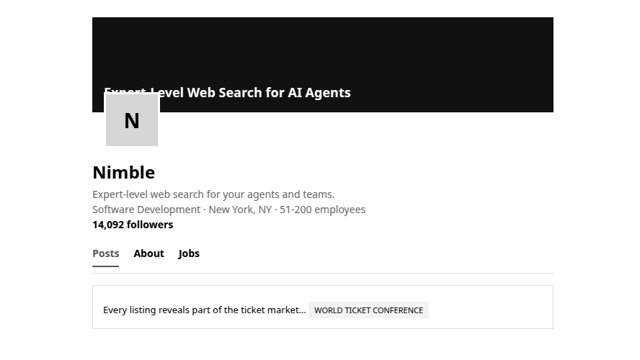
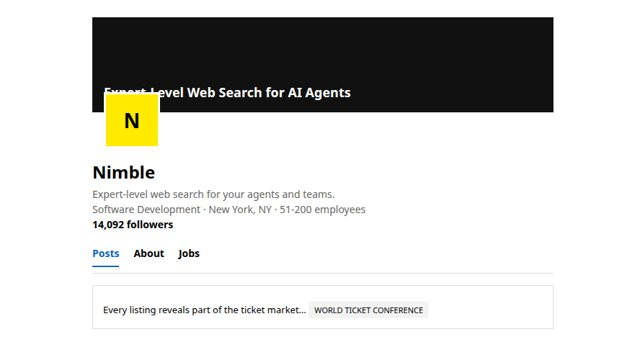
Color presence images; remove screenshot-replacement footer note

Changed region(s): [[0.1562, 0.2444, 0.25, 0.4278], [0.1562, 0.6722, 0.1875, 0.7639], [0.2812, 0.2444, 0.3125, 0.275]]

diff --git a/Leading-DevRel-at-Nimble.html b/Leading-DevRel-at-Nimble.html
@@ -147,7 +147,7 @@ h1.wide { max-width: 22ch; }
   object-fit: cover;
   object-position: center 18%;
   display: block;
-  filter: grayscale(1) contrast(1.05);
+  filter: none;
 }
 
 /* Slide 2 — prerequisites */
@@ -242,7 +242,7 @@ h1.wide { max-width: 22ch; }
   display: block;
   border: 1px solid rgba(17,17,17,0.2);
   background: #f5f5f5;
-  filter: grayscale(1) contrast(1.05);
+  filter: none;
 }
 
 .p-card .l1 {
@@ -398,7 +398,7 @@ h1.wide { max-width: 22ch; }
           </div>
         </div>
       </div>
-      <div class="footer">Replace linkedin/influencer cards with your exact screenshots if needed</div>
+      <div class="footer">Current presence</div>
     </section>
 
   </div>
